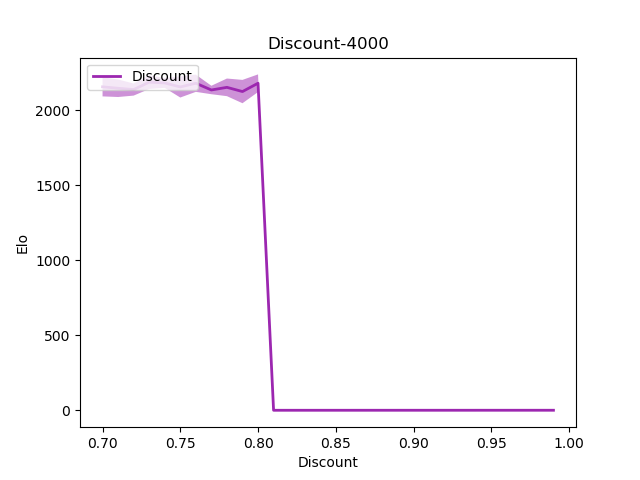
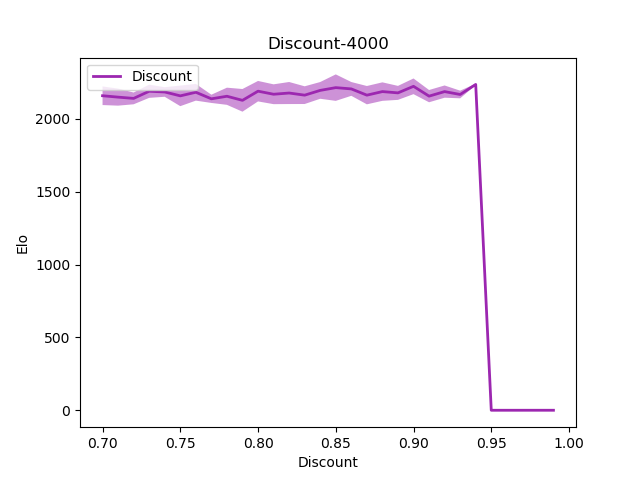
Fix

diff --git a/plotgenerators/discountline.py b/plotgenerators/discountline.py
@@ -24,9 +24,10 @@ def stdAround(data, x, width=10):
 
 for EloOverTime, name, agent, color in Data(files, elo=False):
     dis = find_number(name, d)
+    check = (discounts < dis + 0.002) & (discounts > dis - 0.002)
     for x in xs:
-        ms[x][discounts == dis] = meanAround(EloOverTime, x)
-        ss[x][discounts == dis] = stdAround(EloOverTime, x)
+        ms[x][check] = meanAround(EloOverTime, x)
+        ss[x][check] = stdAround(EloOverTime, x)
 
 
 for x, mean in ms.items():
